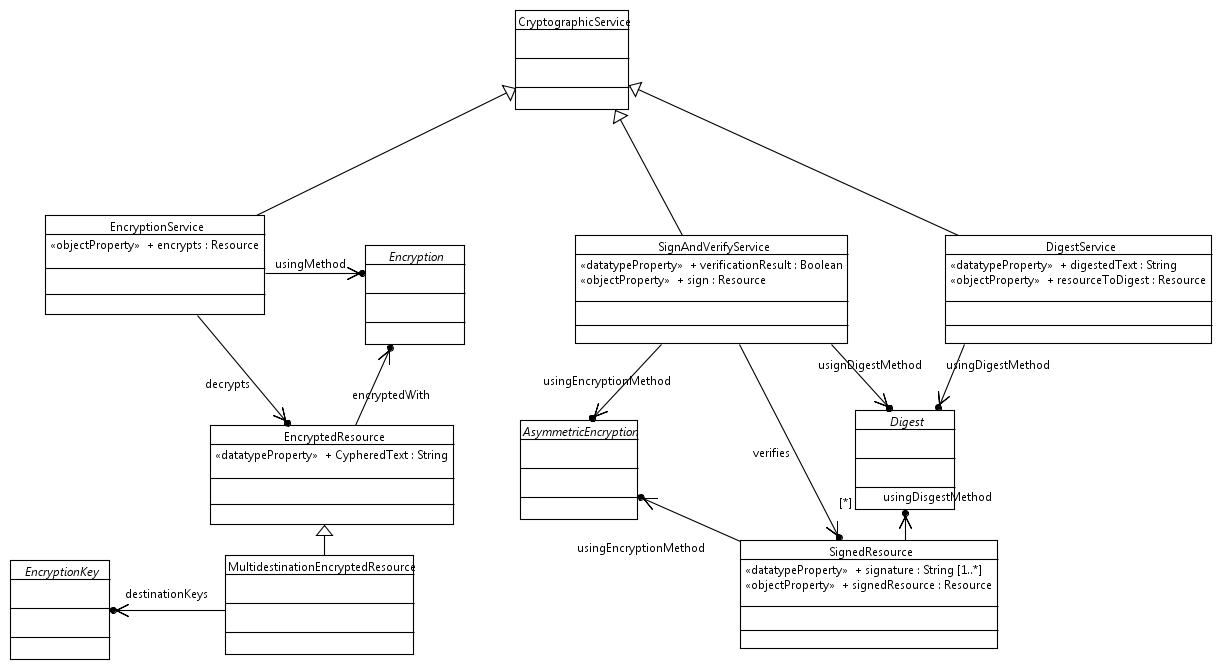
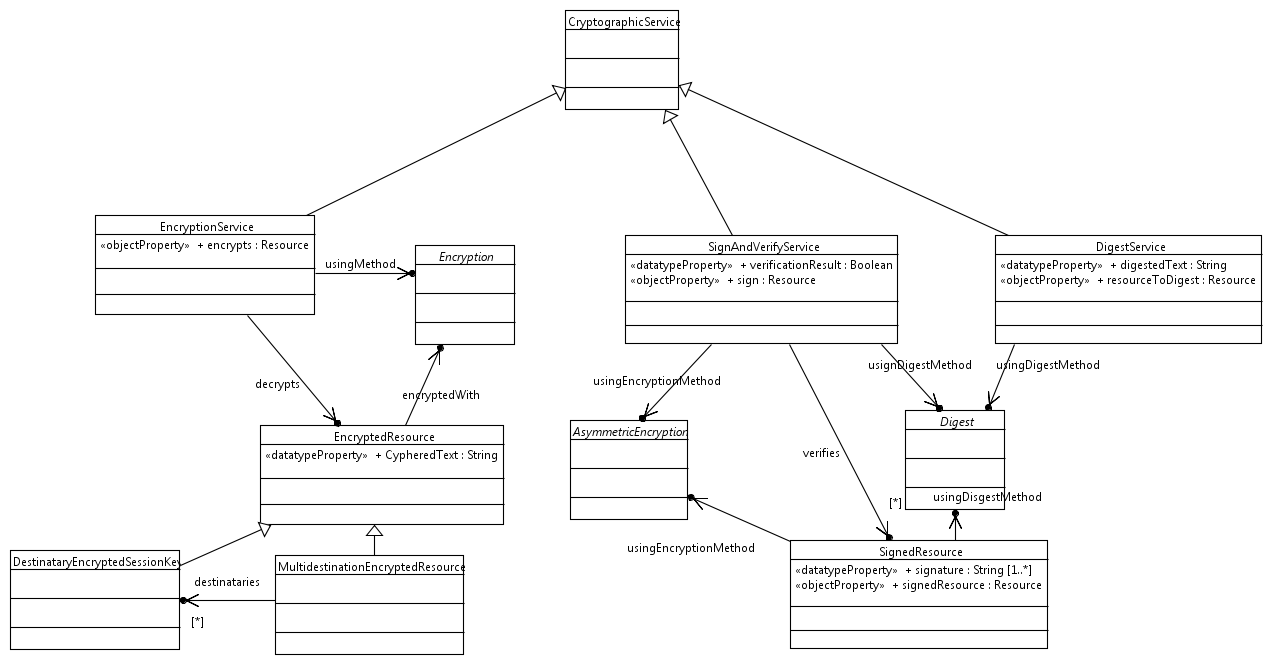
Fixed MultidestinationEncryptedResource Properties. New type DestinataryEncryptedSessionKey which holds an encrypted session key for a particular (anonymous) destinatary.

diff --git a/ont.cryptographic/src/main/java/org/universAAL/ontology/cryptographic/CryptographicOntology.java b/ont.cryptographic/src/main/java/org/universAAL/ontology/cryptographic/CryptographicOntology.java
@@ -95,6 +95,7 @@ public final class CryptographicOntology extends Ontology {
 
     OntClassInfoSetup oci_messageDigest = createNewOntClassInfo(MessageDigest.MY_URI, factory, 10);
     OntClassInfoSetup oci_SecureHashAlgorithm = createNewOntClassInfo(SecureHashAlgorithm.MY_URI, factory, 11);
+    OntClassInfoSetup oci_DESK = createNewOntClassInfo(DestinataryEncryptedSessionKey.MY_URI, factory, 17);
 
     // ******* Add content to enumeration classes of the ontology ******* //
 
@@ -172,10 +173,10 @@ public final class CryptographicOntology extends Ontology {
     oci_MultidestinationEncryptedResource.setResourceComment("An encrypted resource which has different destinataries.");
     oci_MultidestinationEncryptedResource.setResourceLabel("Multidestination Encrypted Resource");
     oci_MultidestinationEncryptedResource.addSuperClass(EncryptedResource.MY_URI); 
-    oci_MultidestinationEncryptedResource.addObjectProperty(MultidestinationEncryptedResource.PROP_KEY).setFunctional();
+    oci_MultidestinationEncryptedResource.addObjectProperty(MultidestinationEncryptedResource.PROP_DESTINATARIES).setFunctional();
     oci_MultidestinationEncryptedResource.addRestriction(MergedRestriction
-      .getAllValuesRestriction(MultidestinationEncryptedResource.PROP_KEY, 
-          EncryptionKey.MY_URI));
+      .getAllValuesRestriction(MultidestinationEncryptedResource.PROP_DESTINATARIES, 
+          DestinataryEncryptedSessionKey.MY_URI));
 
     oci_EncryptionKey.setResourceComment("Key used to (de)cypher messages.");
     oci_EncryptionKey.setResourceLabel("Encryption Key");
@@ -309,6 +310,15 @@ public final class CryptographicOntology extends Ontology {
     oci_Encryption.addObjectProperty(Encryption.PROP_KEY).setFunctional();
       	oci_Encryption.addRestriction(MergedRestriction.getAllValuesRestriction(Encryption.PROP_KEY,  
        	EncryptionKey.MY_URI));
+      	
+    oci_DESK.setResourceComment("A structure to hold the encrypted session key for a particular destinatary.");
+    oci_DESK.setResourceLabel("Destinatary Encrypted Session Key");
+    oci_DESK.addSuperClass(EncryptedResource.MY_URI);
+      	
+      	
+      	/*
+      	 * Digest algorithms
+      	 */
       	
     oci_messageDigest.setResourceComment("All Message Digest (MDx) disgest algorithms.");
     oci_messageDigest.setResourceLabel("Message Digest (MDx)");

diff --git a/ont.cryptographic/src/main/java/org/universAAL/ontology/cryptographic/MultidestinationEncryptedResource.java b/ont.cryptographic/src/main/java/org/universAAL/ontology/cryptographic/MultidestinationEncryptedResource.java
@@ -15,6 +15,10 @@
  ******************************************************************************/
 package org.universAAL.ontology.cryptographic;
 
+import java.util.ArrayList;
+import java.util.Collections;
+import java.util.List;
+
 
 
 /**
@@ -29,8 +33,8 @@ package org.universAAL.ontology.cryptographic;
 public class MultidestinationEncryptedResource extends EncryptedResource {
   public static final String MY_URI = CryptographicOntology.NAMESPACE
     + "MultidestinationEncryptedResource";
-  public static final String PROP_KEY = CryptographicOntology.NAMESPACE
-    + "key";
+  public static final String PROP_DESTINATARIES = CryptographicOntology.NAMESPACE
+    + "destinataries";
 
 
   public MultidestinationEncryptedResource () {
@@ -46,23 +50,41 @@ public class MultidestinationEncryptedResource extends EncryptedResource {
   }
   
   public int getPropSerializationType(String propURI) {
-    if (PROP_KEY.equals(propURI))
+    if (PROP_DESTINATARIES.equals(propURI))
       return PROP_SERIALIZATION_FULL;
     return super.getPropSerializationType(propURI);
   } 
 
   public boolean isWellFormed() {
 	return super.isWellFormed() 
-      && hasProperty(PROP_KEY);
+      && hasProperty(PROP_DESTINATARIES);
   }
-
-  public EncryptionKey getKey() {
-    return (EncryptionKey)getProperty(PROP_KEY);
-  }		
-
-  public void setKey(EncryptionKey newPropValue) {
-    if (newPropValue != null)
-      changeProperty(PROP_KEY, newPropValue);
-  }		
+	
+  public void addDestinatary(DestinataryEncryptedSessionKey desk) {
+	Object current = getProperty(PROP_DESTINATARIES);
+	if (current == null){
+		setProperty(PROP_DESTINATARIES, desk);
+	}else if (current instanceof DestinataryEncryptedSessionKey) {
+		ArrayList ndesk = new ArrayList();
+		ndesk.add(current);
+		ndesk.add(desk);
+		changeProperty(PROP_DESTINATARIES, ndesk);
+	}else if (current instanceof List){
+		((List)current).add(desk);
+		changeProperty(PROP_DESTINATARIES, current);
+	}
+  }
+  
+  public List getDestinataries() {
+	  Object current = getProperty(PROP_DESTINATARIES);
+		if (current instanceof DestinataryEncryptedSessionKey) {
+			ArrayList ndesk = new ArrayList();
+			ndesk.add(current);
+			return ndesk;
+		}else if (current instanceof List){
+			return (List) current;
+		}
+		return Collections.EMPTY_LIST;
+  }
 
 }

diff --git a/ont.cryptographic/src/main/java/org/universAAL/ontology/cryptographic/DestinataryEncryptedSessionKey.java b/ont.cryptographic/src/main/java/org/universAAL/ontology/cryptographic/DestinataryEncryptedSessionKey.java
@@ -1,0 +1,45 @@
+package org.universAAL.ontology.cryptographic;
+
+/*******************************************************************************
+ * Copyright 2016 Universidad Politécnica de Madrid UPM
+ * 
+ * Licensed under the Apache License, Version 2.0 (the "License");
+ * you may not use this file except in compliance with the License.
+ * You may obtain a copy of the License at
+ * 
+ *   http://www.apache.org/licenses/LICENSE-2.0
+ * 
+ * Unless required by applicable law or agreed to in writing, software
+ * distributed under the License is distributed on an "AS IS" BASIS,
+ * WITHOUT WARRANTIES OR CONDITIONS OF ANY KIND, either express or implied.
+ * See the License for the specific language governing permissions and
+ * limitations under the License.
+ ******************************************************************************/
+
+/**
+ * @author amedrano
+ *
+ */
+public class DestinataryEncryptedSessionKey extends EncryptedResource {
+
+	public static final String MY_URI = CryptographicOntology.NAMESPACE + "DestinataryEncryptedSessionKey";
+	
+	/**
+	 * 
+	 */
+	public DestinataryEncryptedSessionKey() {
+	}
+
+	/**
+	 * @param uri
+	 */
+	public DestinataryEncryptedSessionKey(String uri) {
+		super(uri);
+	}
+
+	/**{@inheritDoc} */
+	public String getClassURI() {
+		return MY_URI;
+	}
+
+}

diff --git a/ont.cryptographic/src/main/java/org/universAAL/ontology/CryptographicFactory.java b/ont.cryptographic/src/main/java/org/universAAL/ontology/CryptographicFactory.java
@@ -19,6 +19,7 @@ import org.universAAL.middleware.rdf.Resource;
 import org.universAAL.middleware.rdf.ResourceFactory;
 import org.universAAL.ontology.cryptographic.CertificationAuthority;
 import org.universAAL.ontology.cryptographic.CryptographicService;
+import org.universAAL.ontology.cryptographic.DestinataryEncryptedSessionKey;
 import org.universAAL.ontology.cryptographic.DigestService;
 import org.universAAL.ontology.cryptographic.EncryptedResource;
 import org.universAAL.ontology.cryptographic.EncryptionService;
@@ -75,6 +76,8 @@ public class CryptographicFactory implements ResourceFactory {
     	 return new RSA(RSA.SINGLETON_URI);//SINGLETON INSTANCE: always the same.
      case 16:
     	 return new RSA(DSA.SINGLETON_URI);//SINGLETON INSTANCE: always the same.
+     case 17:
+    	 return new DestinataryEncryptedSessionKey(instanceURI);
 	}
 	return null;
   }
